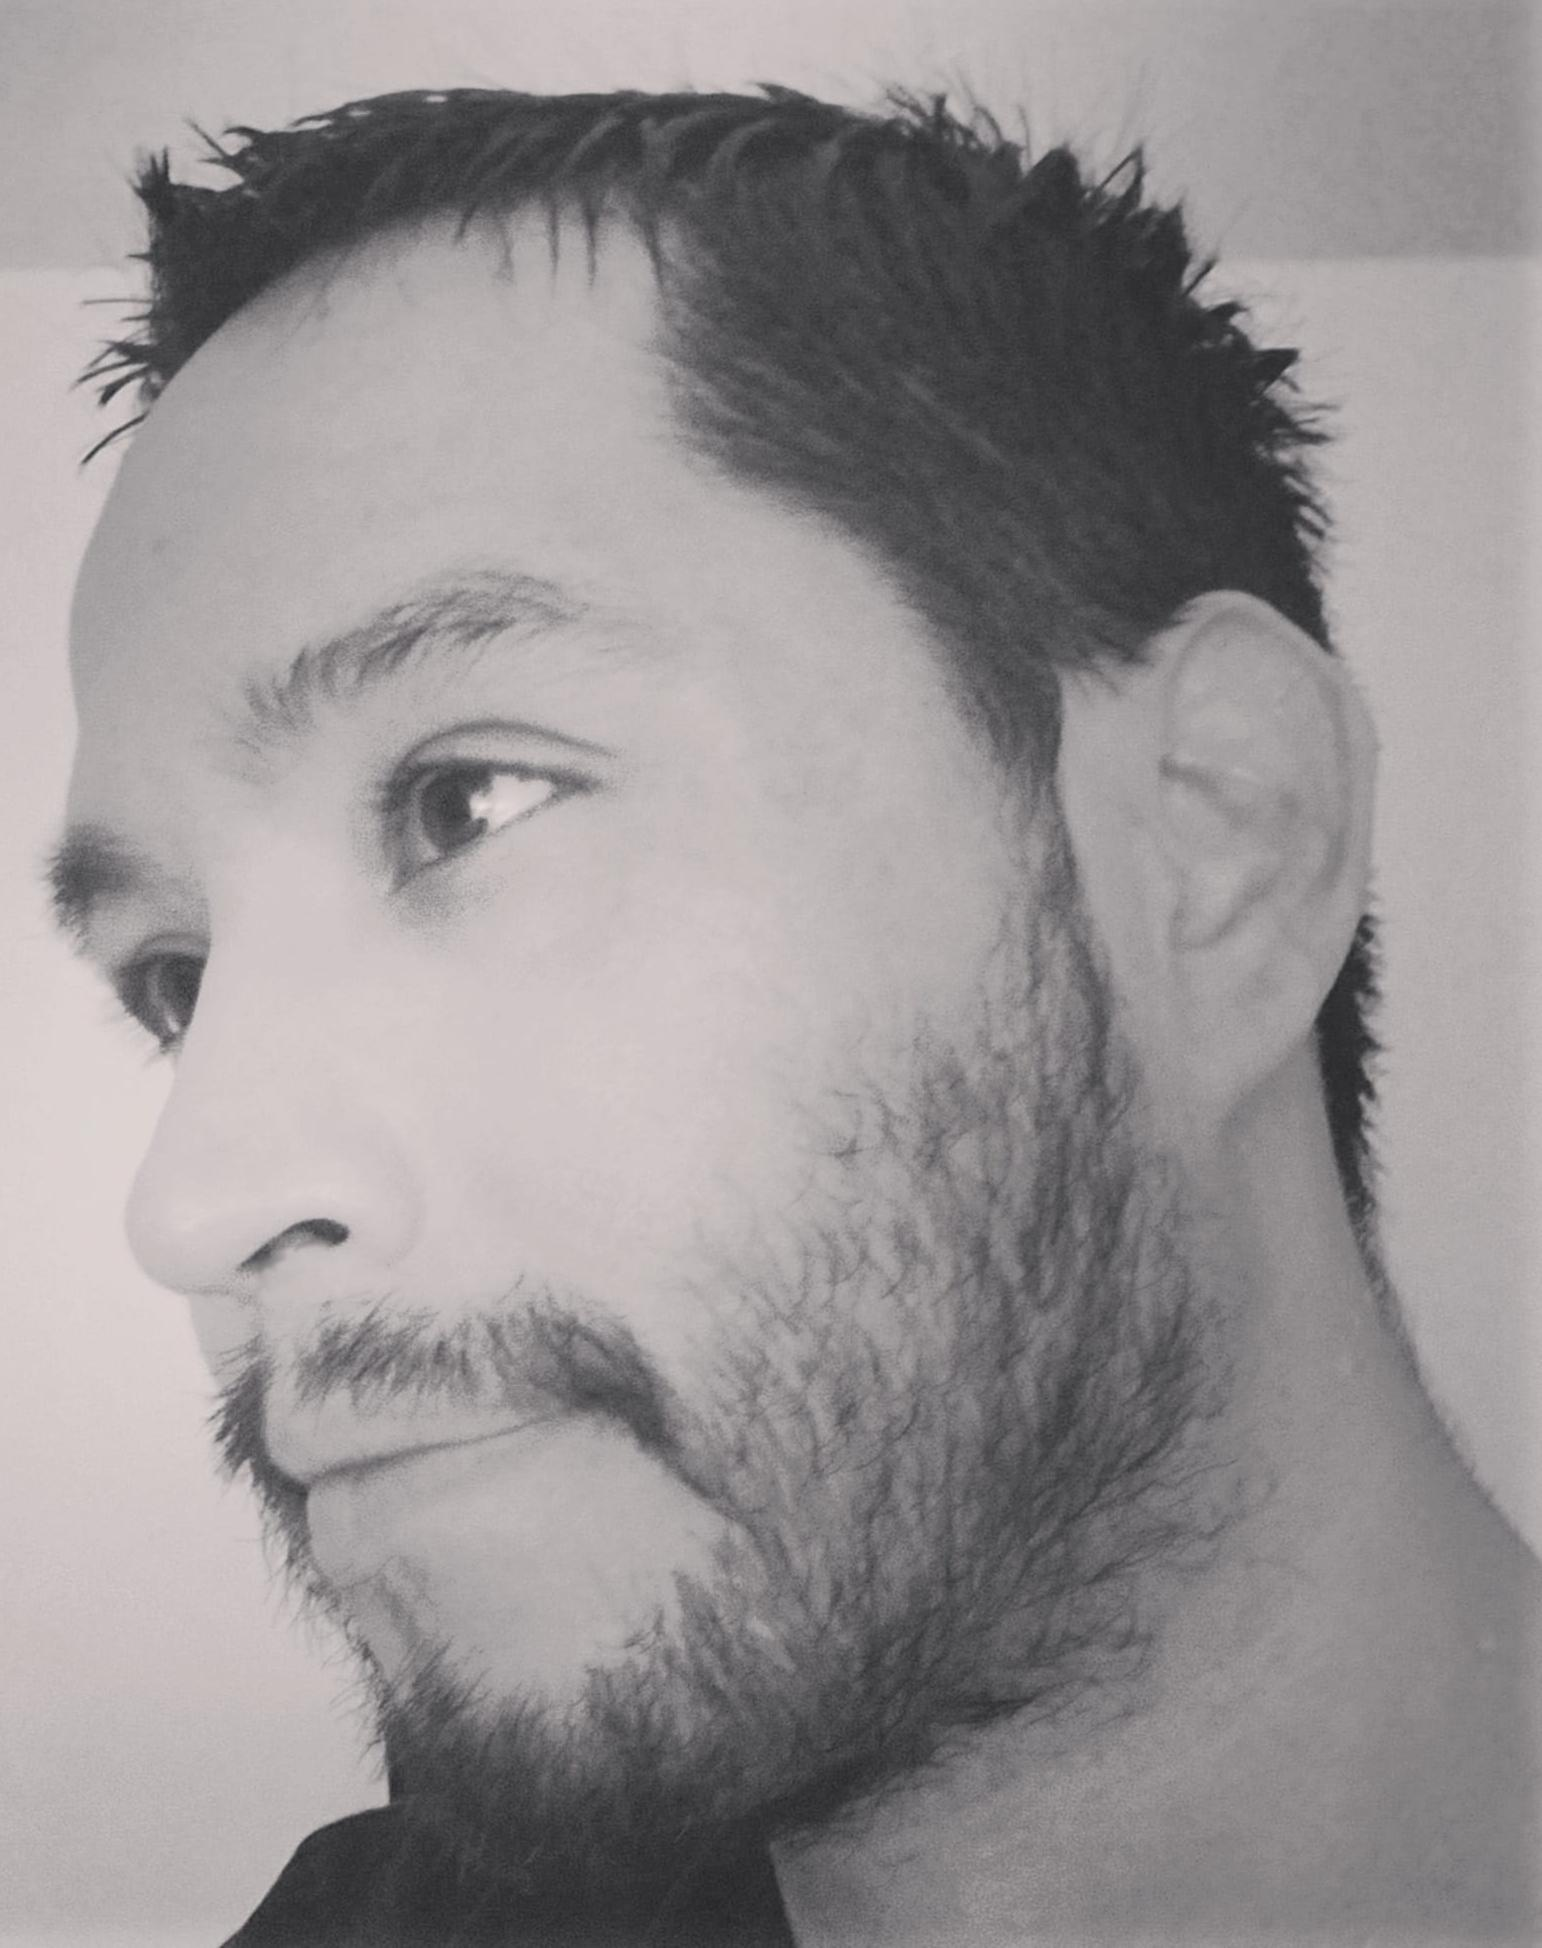
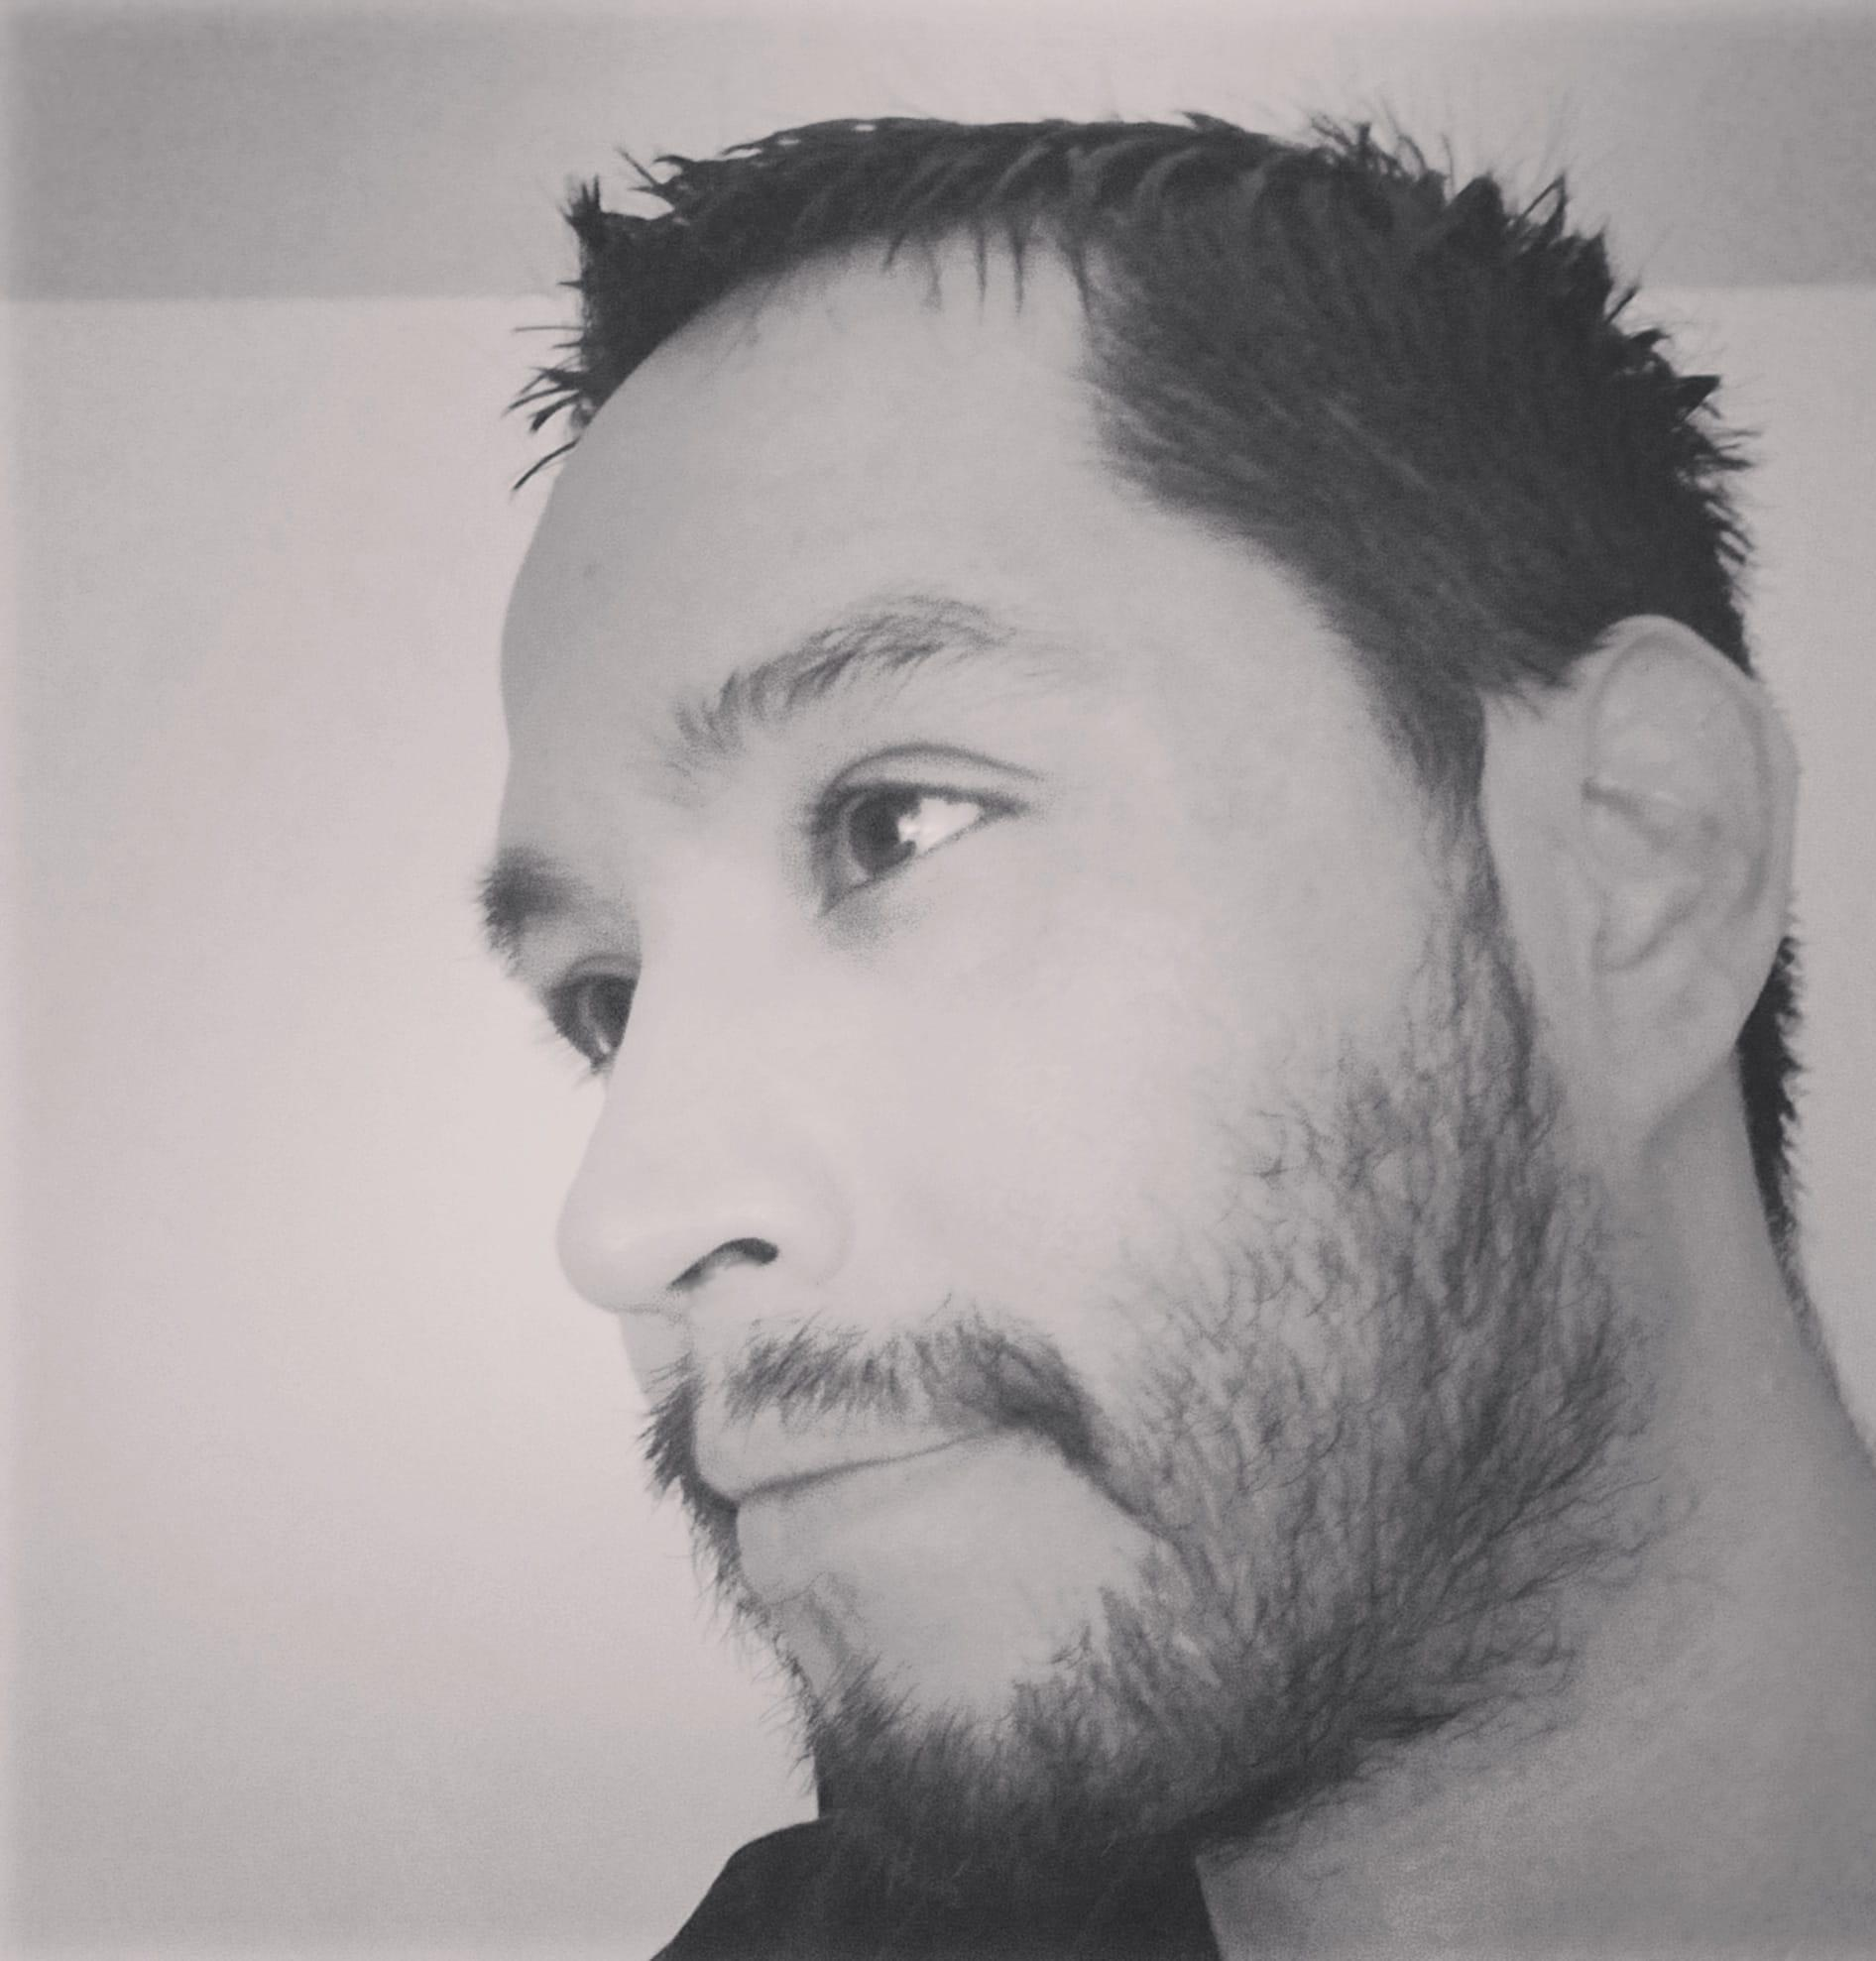
photo update

diff --git a/src/sections/About.tsx b/src/sections/About.tsx
@@ -29,9 +29,9 @@ const About = () => {
                 <img
                   src={profile}
                   alt="Ruben Aguilar"
-                  className="w-full aspect-4/5 object-cover rounded-2xl"
+                  className="w-full aspect-4/5 object-cover object-right rounded-2xl"
                 />
-                <div className="absolute inset-0 bg-linear-to-t from-card via-card/50 to-transparent opacity-60" />
+                <div className="absolute inset-0 bg-linear-to-t from-card via-card/10 to-transparent opacity-60" />
                 <div className='absolute -bottom-4 -right-4 glass rounded-xl px-4 py-3 animate-float'>
                   <div className='flex items-center gap-3'>
                     <div className='w-3 h-3 bg-green-500 rounded-full animate-pulse' />